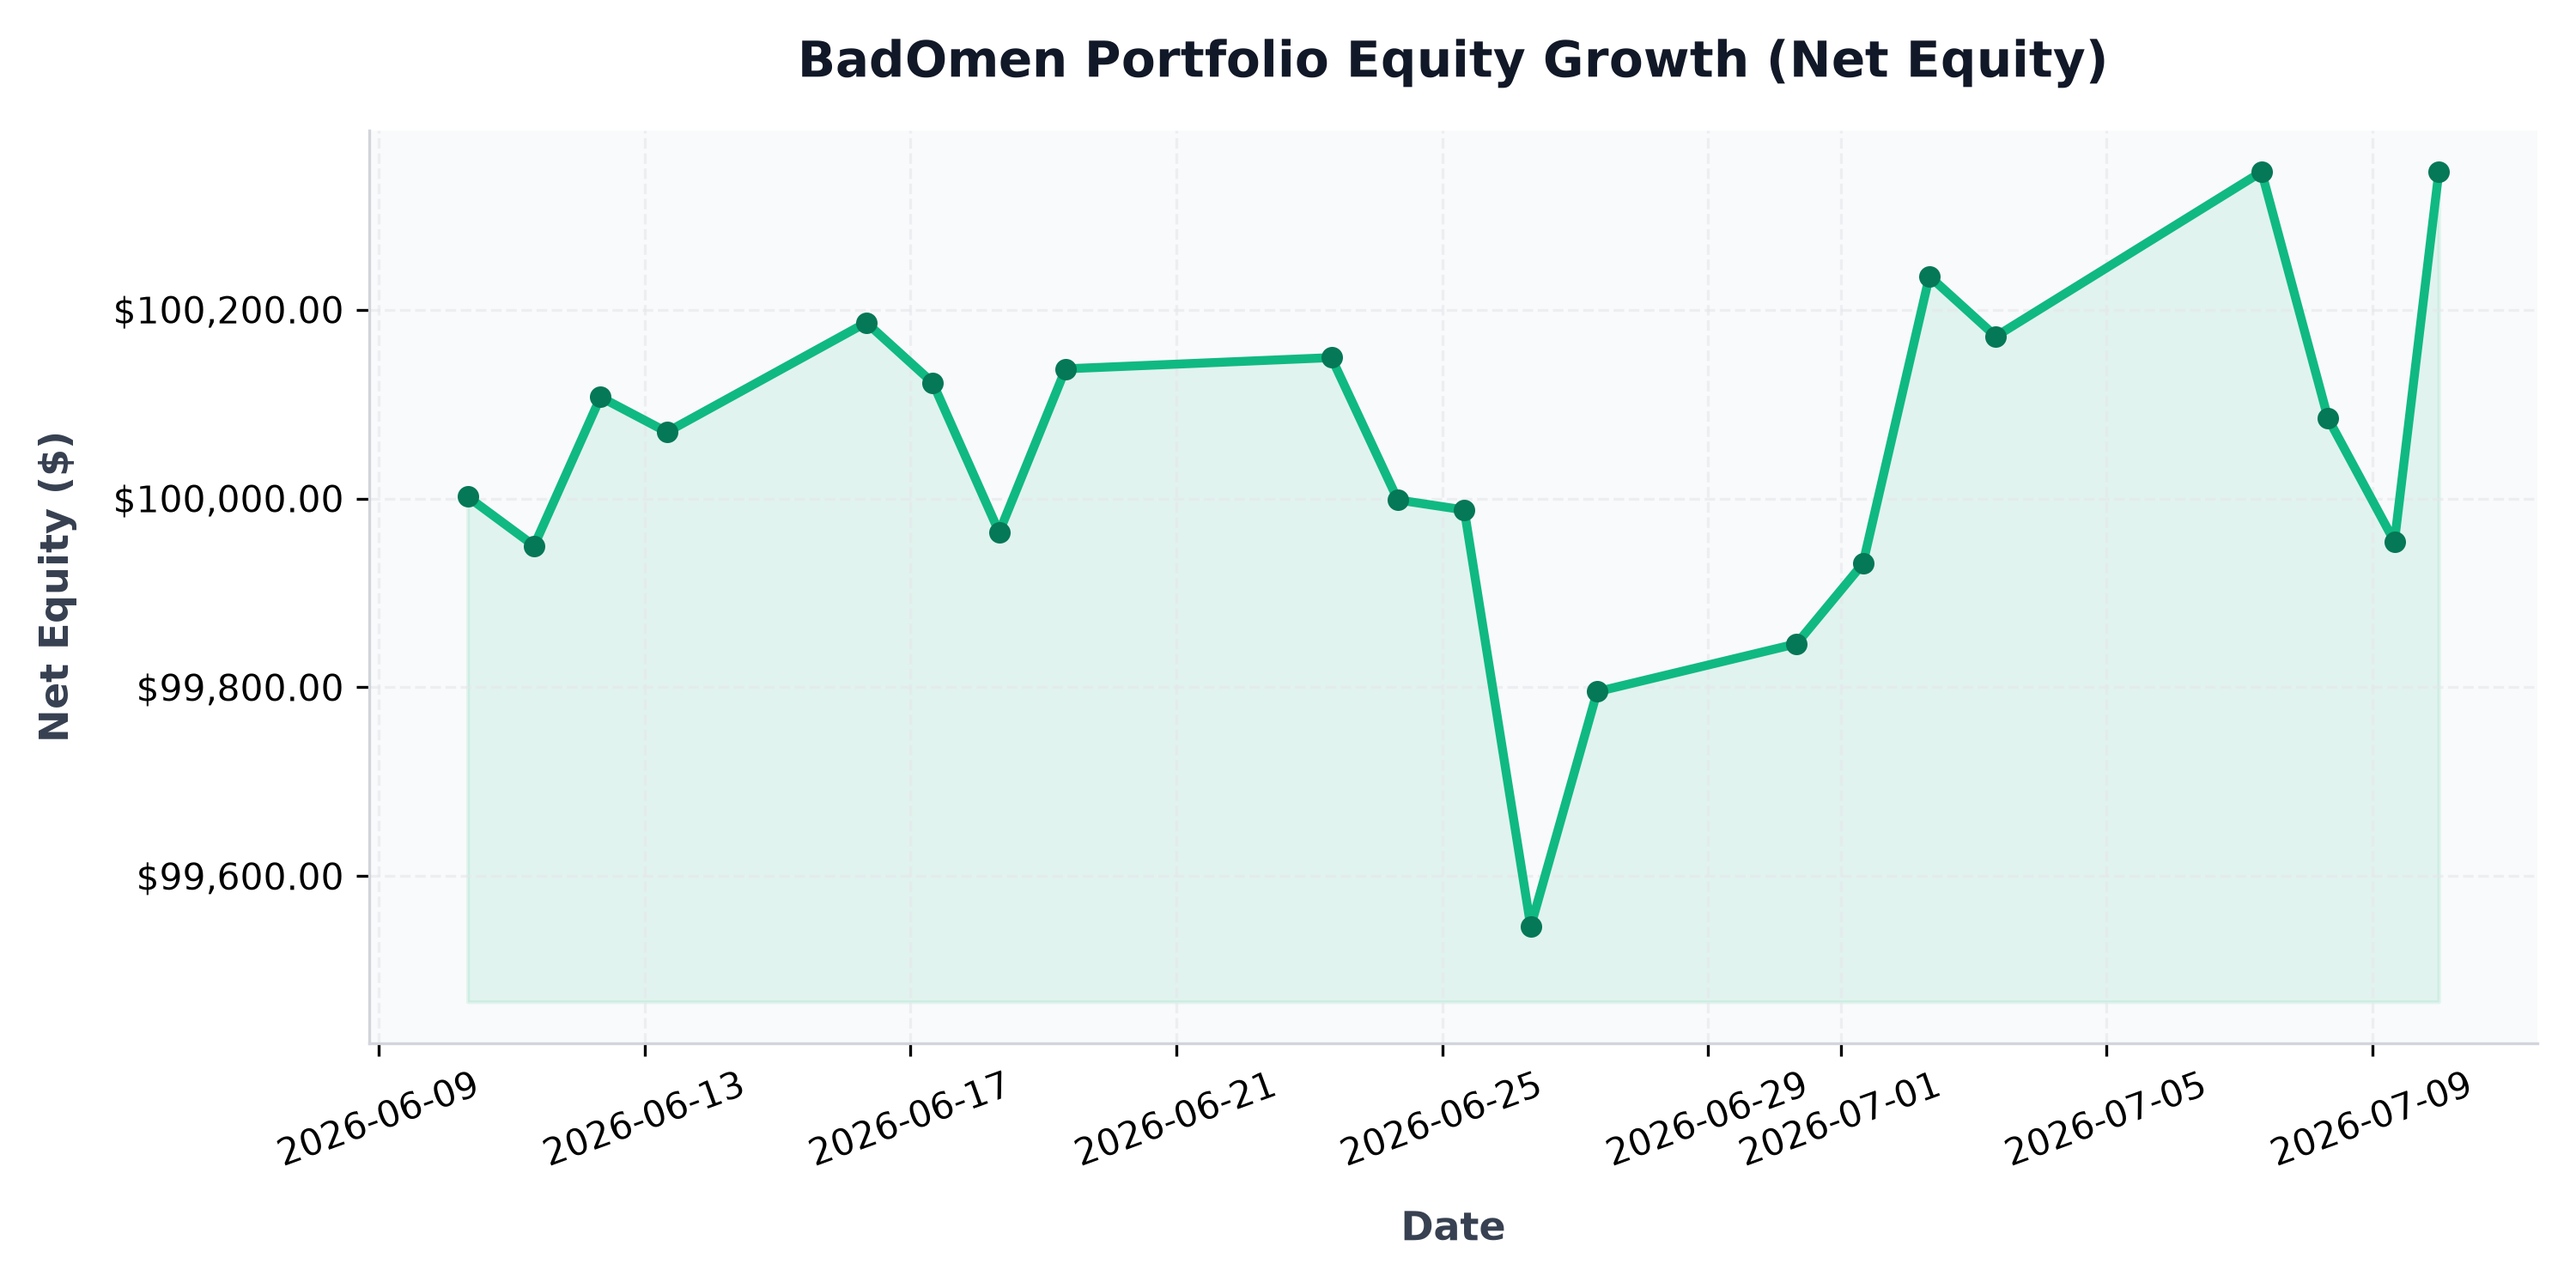
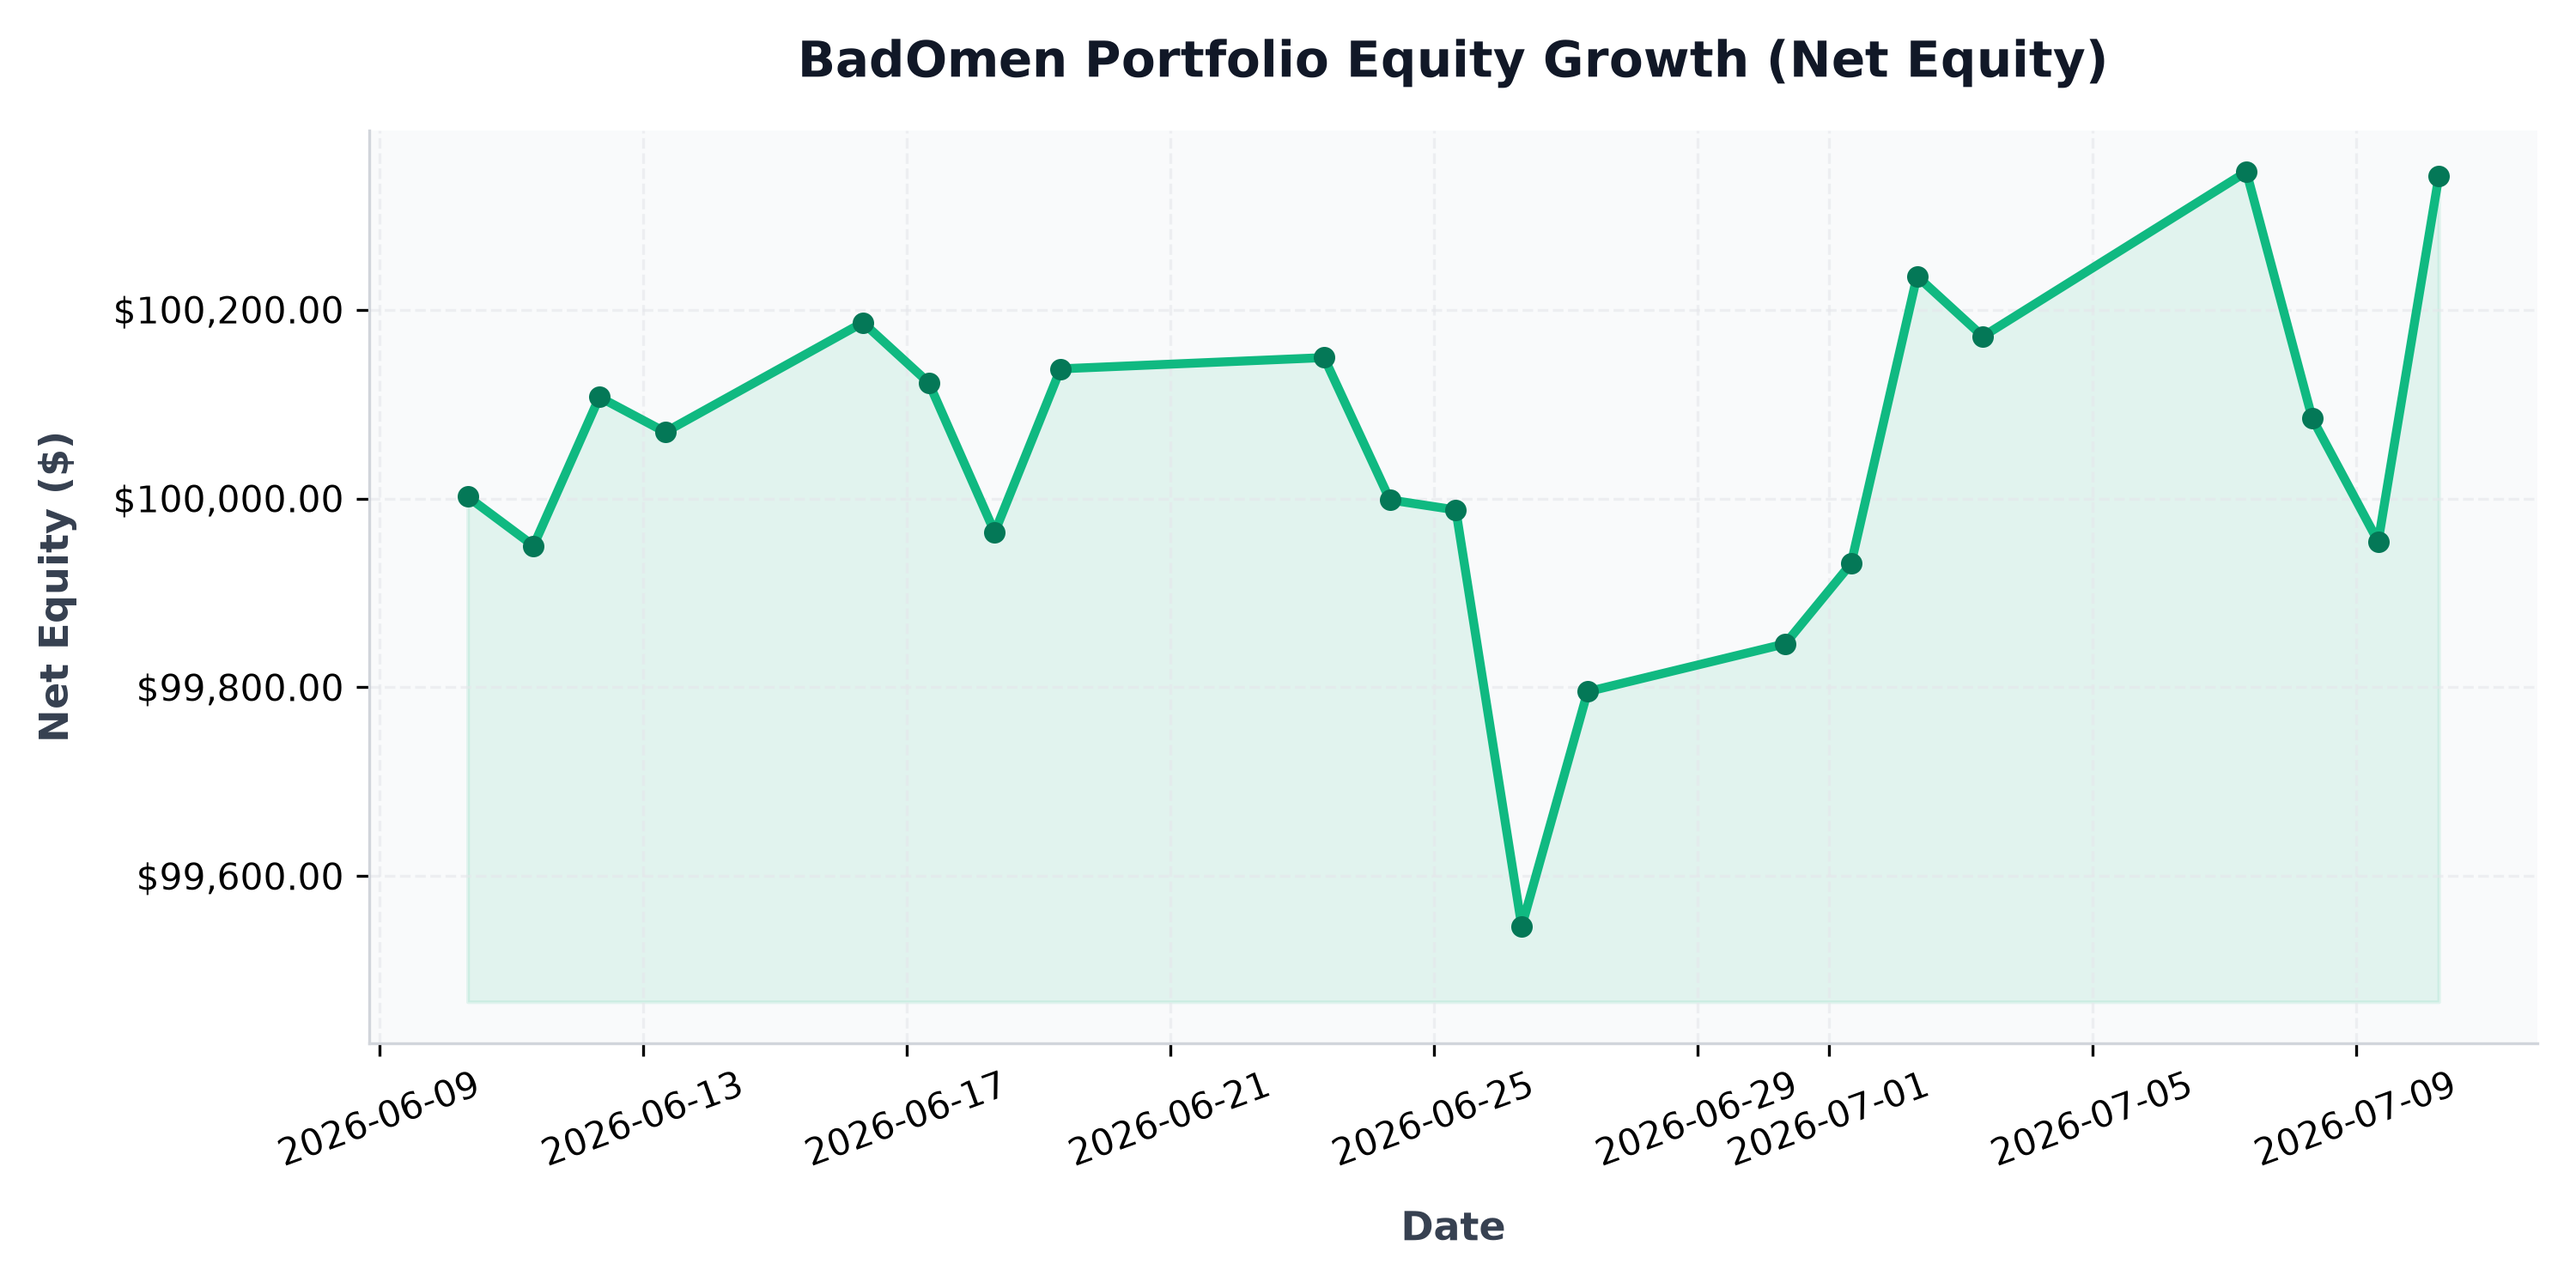
auto: daily portfolio status update - 2026-07-10 06:05:12

diff --git a/src/content/posts/portfolio-performance.md b/src/content/posts/portfolio-performance.md
@@ -1,6 +1,6 @@
 ---
 title: "BadOmen Algorithmic Portfolio Performance & PnL Report"
-pubDatetime: 2026-07-10T00:00:15.816977+08:00
+pubDatetime: 2026-07-10T06:05:12.712502+08:00
 description: "Live performance metrics, active holdings, and historic equity curve for the BadOmen automated paper trading portfolio."
 featured: true
 draft: false
@@ -16,11 +16,11 @@ Welcome to the live performance dashboard for **BadOmen**, our automated algorit
 ## 📊 Portfolio Summary
 | Performance Metric | Value | description |
 | :--- | :--- | :--- |
-| **Net Portfolio Equity** | **$100,345.85** | Total current liquidation value of cash and stock holdings |
-| **Total Unrealized P&L** | 🟢 **+$356.70** (+0.36%) | Total return of current open holdings |
+| **Net Portfolio Equity** | **$100,341.16** | Total current liquidation value of cash and stock holdings |
+| **Total Unrealized P&L** | 🟢 **+$352.39** (+0.35%) | Total return of current open holdings |
 | **Cash Balance** | $80,681.39 | Idle reserve currency available for limit orders |
-| **Buying Power** | $375,859.63 | Margin-backed buying power for entry allocations |
-| **Report Updated** | `2026-07-10 00:00:15 (SGT)` | Timestamp of daily execution and sync run |
+| **Buying Power** | $375,846.49 | Margin-backed buying power for entry allocations |
+| **Report Updated** | `2026-07-10 06:05:12 (SGT)` | Timestamp of daily execution and sync run |
 
 ## 📈 Net Equity Growth Curve
 The chart below illustrates the historical performance of the account starting from our baseline capital funding of $100,000.00.
@@ -35,23 +35,23 @@ The chart below illustrates the exposure of our currently held active positions 
 ## 💼 Current Position Holdings
 | Ticker | Industry | Shares Owned | Average Entry Cost | Current Price | Unrealized P&L | Return (%) |
 | :--- | :--- | :--- | :--- | :--- | :--- | :--- |
-| **AN** | Auto & Truck Dealerships | 5 | $188.51 | $192.00 | 🟢 +$17.46 | +1.85% |
-| **AVGO** | Semiconductors | 1 | $385.71 | $400.69 | 🟢 +$14.97 | +3.88% |
+| **AN** | Auto & Truck Dealerships | 5 | $188.51 | $192.31 | 🟢 +$19.01 | +2.02% |
+| **AVGO** | Semiconductors | 1 | $385.71 | $402.01 | 🟢 +$16.30 | +4.23% |
 | **CELH** | Beverages - Non-Alcoholic | 33 | $29.71 | $30.58 | 🟢 +$28.62 | +2.92% |
-| **GDDY** | Software - Infrastructure | 12 | $76.21 | $87.53 | 🟢 +$135.84 | +14.85% |
-| **GGAL** | Banks - Regional | 17 | $56.04 | $49.07 | 🔴 $-118.48 | -12.44% |
-| **GPI** | Auto & Truck Dealerships | 3 | $316.15 | $299.29 | 🔴 $-50.58 | -5.33% |
-| **ITRI** | Scientific & Technical Instruments | 12 | $81.80 | $85.31 | 🟢 +$42.09 | +4.29% |
-| **META** | Internet Content & Information | 1 | $568.17 | $608.41 | 🟢 +$40.24 | +7.08% |
-| **NU** | Banks - Regional | 85 | $11.60 | $13.54 | 🟢 +$165.45 | +16.78% |
-| **ON** | Semiconductors | 10 | $90.45 | $102.29 | 🟢 +$118.35 | +13.08% |
-| **ORCL** | Software - Infrastructure | 5 | $181.95 | $146.33 | 🔴 $-178.10 | -19.58% |
-| **PATH** | Software - Infrastructure | 187 | $10.42 | $11.80 | 🟢 +$257.33 | +13.21% |
-| **QCOM** | Semiconductors | 15 | $193.68 | $194.56 | 🟢 +$13.05 | +0.45% |
-| **SMCI** | Computer Hardware | 33 | $29.25 | $28.79 | 🔴 $-15.35 | -1.59% |
-| **T** | Telecom Services | 47 | $20.85 | $20.89 | 🟢 +$1.65 | +0.17% |
-| **WEN** | Restaurants | 257 | $8.02 | $7.42 | 🔴 $-153.87 | -7.46% |
-| **ZG** | Internet Content & Information | 31 | $31.35 | $32.58 | 🟢 +$38.03 | +3.91% |
+| **GDDY** | Software - Infrastructure | 12 | $76.21 | $87.87 | 🟢 +$139.92 | +15.30% |
+| **GGAL** | Banks - Regional | 17 | $56.04 | $49.39 | 🔴 $-113.04 | -11.87% |
+| **GPI** | Auto & Truck Dealerships | 3 | $316.15 | $302.96 | 🔴 $-39.57 | -4.17% |
+| **ITRI** | Scientific & Technical Instruments | 12 | $81.80 | $84.99 | 🟢 +$38.28 | +3.90% |
+| **META** | Internet Content & Information | 1 | $568.17 | $629.90 | 🟢 +$61.73 | +10.87% |
+| **NU** | Banks - Regional | 85 | $11.60 | $13.61 | 🟢 +$171.14 | +17.36% |
+| **ON** | Semiconductors | 10 | $90.45 | $98.00 | 🟢 +$75.45 | +8.34% |
+| **ORCL** | Software - Infrastructure | 5 | $181.95 | $144.77 | 🔴 $-185.90 | -20.43% |
+| **PATH** | Software - Infrastructure | 187 | $10.42 | $11.83 | 🟢 +$263.76 | +13.54% |
+| **QCOM** | Semiconductors | 15 | $193.68 | $191.40 | 🔴 $-34.27 | -1.18% |
+| **SMCI** | Computer Hardware | 33 | $29.25 | $28.25 | 🔴 $-32.87 | -3.40% |
+| **T** | Telecom Services | 47 | $20.85 | $21.02 | 🟢 +$8.02 | +0.82% |
+| **WEN** | Restaurants | 257 | $8.02 | $7.55 | 🔴 $-121.75 | -5.90% |
+| **ZG** | Internet Content & Information | 31 | $31.35 | $33.21 | 🟢 +$57.56 | +5.92% |
 
 ## 🔴 Recent Realized Trades
 | Ticker | Shares Sold | Entry Price | Exit Price | Strategy Trigger | Realized Return | Exit Date |
